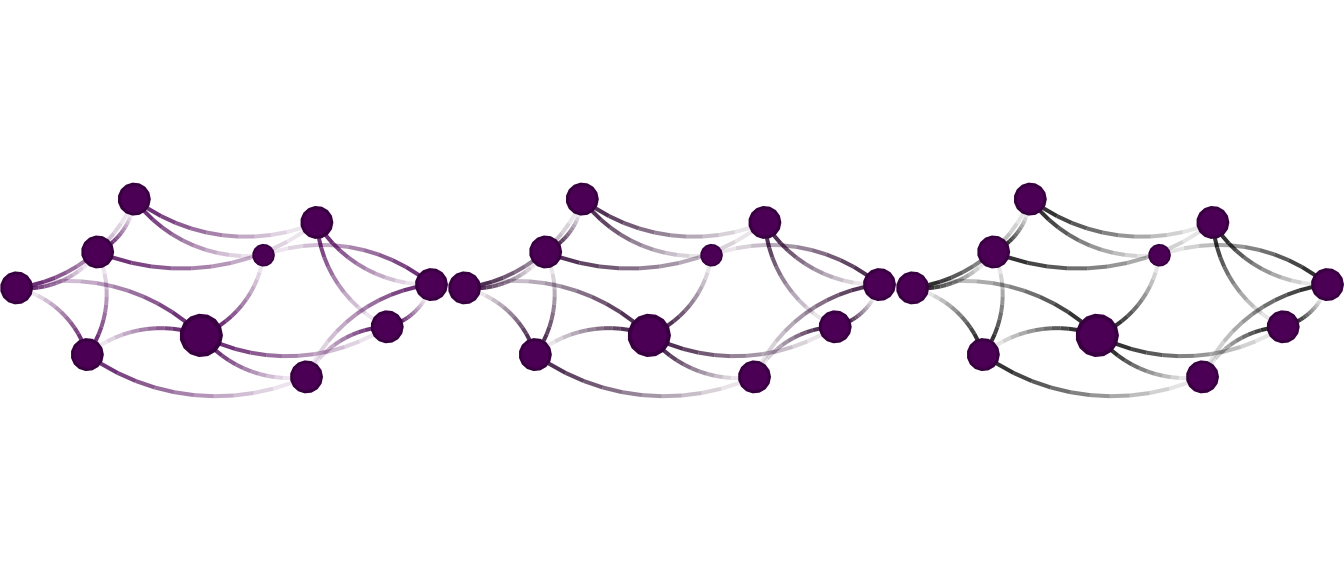
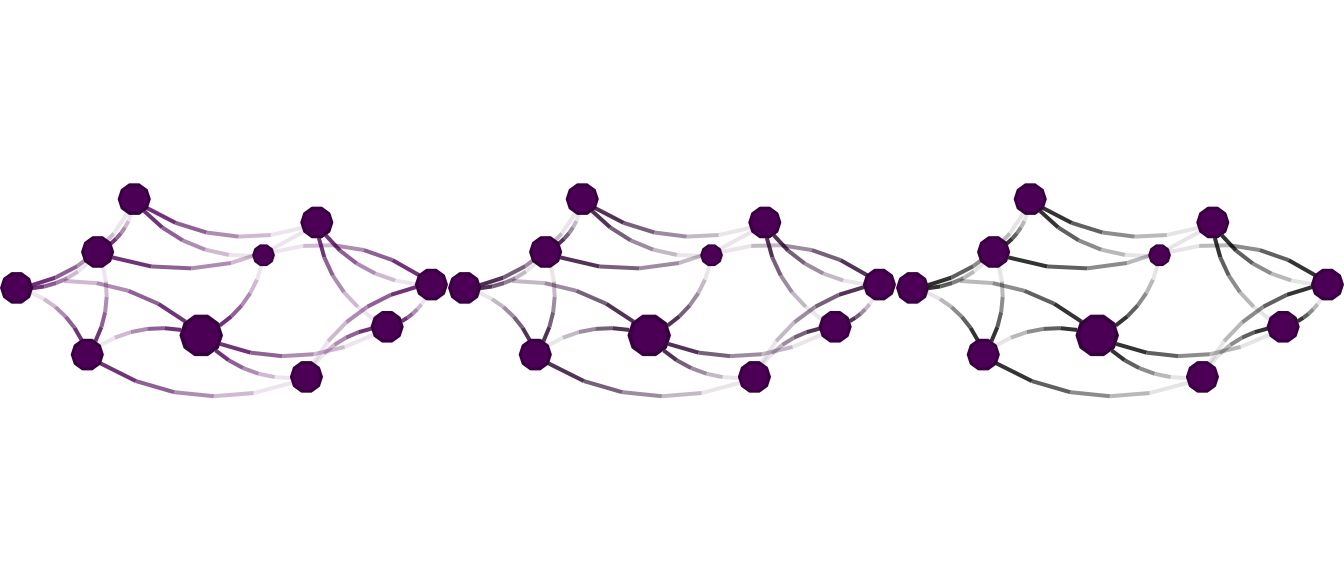
deploy: 20e3d6dbc884a404d5db6398f413ae286cb1bd51

diff --git a/reference/nplot_legend.html b/reference/nplot_legend.html
@@ -200,16 +200,39 @@ figure ar passed through the <code>gp</code> argument (see examples).</p>
 <span class='va'>g</span> <span class='op'>&lt;-</span> <span class='fu'><a href='nplot.html'>nplot</a></span><span class='op'>(</span>
   <span class='va'>x</span>,
   vertex.nsides <span class='op'>=</span> <span class='fu'><a href='https://rdrr.io/pkg/igraph/man/V.html'>V</a></span><span class='op'>(</span><span class='va'>x</span><span class='op'>)</span><span class='op'>$</span><span class='va'>nsides</span>,
-  vertex.color  <span class='op'>=</span> <span class='fu'><a href='https://rdrr.io/r/base/ifelse.html'>ifelse</a></span><span class='op'>(</span><span class='fu'><a href='https://rdrr.io/pkg/igraph/man/V.html'>V</a></span><span class='op'>(</span><span class='va'>x</span><span class='op'>)</span><span class='op'>$</span><span class='va'>nsides</span> <span class='op'>==</span> <span class='fl'>4</span>, <span class='st'>"red"</span>, <span class='st'>"steelblue"</span><span class='op'>)</span>
+  vertex.color  <span class='op'>=</span> <span class='fu'><a href='https://rdrr.io/r/base/ifelse.html'>ifelse</a></span><span class='op'>(</span><span class='fu'><a href='https://rdrr.io/pkg/igraph/man/V.html'>V</a></span><span class='op'>(</span><span class='va'>x</span><span class='op'>)</span><span class='op'>$</span><span class='va'>nsides</span> <span class='op'>==</span> <span class='fl'>4</span>, <span class='st'>"red"</span>, <span class='st'>"steelblue"</span><span class='op'>)</span>,
+  edge.line.breaks <span class='op'>=</span> <span class='fl'>5</span>
   <span class='op'>)</span>
 
 <span class='fu'>nplot_legend</span><span class='op'>(</span>
   <span class='va'>g</span>,
-  labels <span class='op'>=</span> <span class='fu'><a href='https://rdrr.io/r/base/c.html'>c</a></span><span class='op'>(</span><span class='st'>"circle"</span>, <span class='st'>"diamond"</span><span class='op'>)</span>,
-  pch    <span class='op'>=</span> <span class='fu'><a href='https://rdrr.io/r/base/c.html'>c</a></span><span class='op'>(</span><span class='fl'>21</span>, <span class='fl'>23</span><span class='op'>)</span>,
-  gp     <span class='op'>=</span> <span class='fu'>gpar</span><span class='op'>(</span>fill <span class='op'>=</span> <span class='fu'><a href='https://rdrr.io/r/base/c.html'>c</a></span><span class='op'>(</span><span class='st'>"steelblue"</span>, <span class='st'>"red"</span><span class='op'>)</span><span class='op'>)</span>
+  labels <span class='op'>=</span> <span class='fu'><a href='https://rdrr.io/r/base/c.html'>c</a></span><span class='op'>(</span><span class='st'>"circle"</span>, <span class='st'>"diamond"</span>, <span class='st'>"edge"</span><span class='op'>)</span>,
+  pch    <span class='op'>=</span> <span class='fu'><a href='https://rdrr.io/r/base/c.html'>c</a></span><span class='op'>(</span><span class='fl'>21</span>, <span class='fl'>23</span>, <span class='cn'>NA</span><span class='op'>)</span>,
+  gp     <span class='op'>=</span> <span class='fu'>gpar</span><span class='op'>(</span>
+    fill <span class='op'>=</span> <span class='fu'><a href='https://rdrr.io/r/base/c.html'>c</a></span><span class='op'>(</span><span class='st'>"steelblue"</span>, <span class='st'>"red"</span>, <span class='cn'>NA</span><span class='op'>)</span>,
+    lwd  <span class='op'>=</span> <span class='fu'><a href='https://rdrr.io/r/base/c.html'>c</a></span><span class='op'>(</span><span class='cn'>NA</span>, <span class='cn'>NA</span>, <span class='fl'>1</span><span class='op'>)</span>,
+    col  <span class='op'>=</span> <span class='fu'><a href='https://rdrr.io/r/base/c.html'>c</a></span><span class='op'>(</span><span class='cn'>NA</span>, <span class='cn'>NA</span>, <span class='st'>"purple"</span><span class='op'>)</span>
+    <span class='op'>)</span>
   <span class='op'>)</span>
-</div><div class='output co'>#&gt; <span class='error'>Error in nplot_legend(g, labels = c("circle", "diamond"), pch = c(21,     23), gp = gpar(fill = c("steelblue", "red"))): object 'newpage' not found</span></div></pre>
+</div><div class='input'><span class='fu'>grid.text</span><span class='op'>(</span><span class='st'>"Legend to the left (default)"</span>, y <span class='op'>=</span> <span class='fu'>unit</span><span class='op'>(</span><span class='fl'>.95</span>, <span class='st'>"npc"</span><span class='op'>)</span>, just <span class='op'>=</span> <span class='st'>"bottom"</span><span class='op'>)</span>
+</div><div class='img'><img src='nplot_legend-1.png' alt='' width='700' height='433' /></div><div class='input'>
+<span class='fu'>nplot_legend</span><span class='op'>(</span>
+  <span class='va'>g</span>,
+  labels <span class='op'>=</span> <span class='fu'><a href='https://rdrr.io/r/base/c.html'>c</a></span><span class='op'>(</span><span class='st'>"circle"</span>, <span class='st'>"diamond"</span>, <span class='st'>"edge"</span><span class='op'>)</span>,
+  pch    <span class='op'>=</span> <span class='fu'><a href='https://rdrr.io/r/base/c.html'>c</a></span><span class='op'>(</span><span class='fl'>21</span>, <span class='fl'>23</span>, <span class='cn'>NA</span><span class='op'>)</span>,
+  gp     <span class='op'>=</span> <span class='fu'>gpar</span><span class='op'>(</span>
+    fill <span class='op'>=</span> <span class='fu'><a href='https://rdrr.io/r/base/c.html'>c</a></span><span class='op'>(</span><span class='st'>"steelblue"</span>, <span class='st'>"red"</span>, <span class='cn'>NA</span><span class='op'>)</span>,
+    lwd  <span class='op'>=</span> <span class='fu'><a href='https://rdrr.io/r/base/c.html'>c</a></span><span class='op'>(</span><span class='cn'>NA</span>, <span class='cn'>NA</span>, <span class='fl'>1</span><span class='op'>)</span>,
+    col  <span class='op'>=</span> <span class='fu'><a href='https://rdrr.io/r/base/c.html'>c</a></span><span class='op'>(</span><span class='cn'>NA</span>, <span class='cn'>NA</span>, <span class='st'>"purple"</span><span class='op'>)</span>
+    <span class='op'>)</span>,
+  <span class='co'># These two extra options set the legend to the bottom</span>
+  packgrob.args <span class='op'>=</span> <span class='fu'><a href='https://rdrr.io/r/base/list.html'>list</a></span><span class='op'>(</span>side <span class='op'>=</span> <span class='st'>"bottom"</span><span class='op'>)</span>,
+  ncol <span class='op'>=</span> <span class='fl'>3</span>
+  <span class='op'>)</span>
+</div><div class='input'><span class='fu'>grid.text</span><span class='op'>(</span><span class='st'>"Legend bottom"</span>, y <span class='op'>=</span> <span class='fu'>unit</span><span class='op'>(</span><span class='fl'>.95</span>, <span class='st'>"npc"</span><span class='op'>)</span>, just <span class='op'>=</span> <span class='st'>"bottom"</span><span class='op'>)</span>
+</div><div class='img'><img src='nplot_legend-2.png' alt='' width='700' height='433' /></div><div class='input'>
+
+</div></pre>
   </div>
   <div class="col-md-3 hidden-xs hidden-sm" id="pkgdown-sidebar">
     <nav id="toc" data-toggle="toc" class="sticky-top">

diff --git a/index.html b/index.html
@@ -130,6 +130,7 @@
 <span class="co">#&gt; </span>
 <span class="co">#&gt;     union</span>
 <span class="kw"><a href="https://rdrr.io/r/base/library.html">library</a></span><span class="op">(</span><span class="va"><a href="https://github.com/USCCANA/netplot">netplot</a></span><span class="op">)</span>
+<span class="co">#&gt; Loading required package: grid</span>
 <span class="co">#&gt; </span>
 <span class="co">#&gt; Attaching package: 'netplot'</span>
 <span class="co">#&gt; The following object is masked from 'package:igraph':</span>
@@ -173,11 +174,20 @@
 <span class="co"># Plot it!</span>
 <span class="va">ans</span></code></pre></div>
 <p><img src="reference/figures/README-unnamed-chunk-1-1.png" width="85%"></p>
+<div class="sourceCode" id="cb7"><pre class="downlit sourceCode r">
+<code class="sourceCode R"><span class="co"># With a legend</span>
+<span class="fu"><a href="reference/nplot_legend.html">nplot_legend</a></span><span class="op">(</span>
+  <span class="va">ans</span>, 
+  labels <span class="op">=</span> <span class="fu"><a href="https://rdrr.io/r/base/paste.html">paste</a></span><span class="op">(</span><span class="st">"Group"</span>, <span class="fl">1</span><span class="op">:</span><span class="fl">4</span><span class="op">)</span>,
+  pch    <span class="op">=</span> <span class="fu"><a href="https://rdrr.io/r/base/c.html">c</a></span><span class="op">(</span><span class="fl">21</span>, <span class="fl">21</span>, <span class="fl">21</span><span class="op">)</span>,
+  gp     <span class="op">=</span> <span class="fu">gpar</span><span class="op">(</span>fill <span class="op">=</span> <span class="fu">grDevices</span><span class="fu">::</span><span class="fu"><a href="https://rdrr.io/r/grDevices/palettes.html">hcl.colors</a></span><span class="op">(</span><span class="fl">5</span>, <span class="st">"Plasma"</span><span class="op">)</span><span class="op">[</span><span class="fl">2</span><span class="op">:</span><span class="fl">4</span><span class="op">]</span><span class="op">)</span>
+  <span class="op">)</span></code></pre></div>
+<p><img src="reference/figures/README-unnamed-chunk-1-2.png" width="85%"></p>
 </div>
 <div id="usairports" class="section level3">
 <h3 class="hasAnchor">
 <a href="#usairports" class="anchor"></a>USairports</h3>
-<div class="sourceCode" id="cb7"><pre class="downlit sourceCode r">
+<div class="sourceCode" id="cb8"><pre class="downlit sourceCode r">
 <code class="sourceCode R"><span class="co"># Loading the data</span>
 <span class="fu"><a href="https://rdrr.io/r/utils/data.html">data</a></span><span class="op">(</span><span class="va">USairports</span>, package<span class="op">=</span><span class="st">"igraphdata"</span><span class="op">)</span>
 
@@ -216,8 +226,9 @@
   vertex.color      <span class="op">=</span> <span class="va">col</span>,
   skip.vertex       <span class="op">=</span> <span class="cn">TRUE</span>,
   skip.arrows       <span class="op">=</span> <span class="cn">TRUE</span>,
-  edge.width.range  <span class="op">=</span> <span class="fu"><a href="https://rdrr.io/r/base/c.html">c</a></span><span class="op">(</span><span class="fl">.75</span>, <span class="fl">4</span>, <span class="fl">4</span><span class="op">)</span>,
-  bg.col            <span class="op">=</span> <span class="st">"black"</span>
+  edge.width.range  <span class="op">=</span> <span class="fu"><a href="https://rdrr.io/r/base/c.html">c</a></span><span class="op">(</span><span class="fl">.75</span>, <span class="fl">4</span>, <span class="fl">4</span><span class="op">)</span>, 
+  bg.col            <span class="op">=</span> <span class="st">"black"</span>,
+  edge.line.breaks  <span class="op">=</span> <span class="fl">10</span>
   <span class="op">)</span></code></pre></div>
 <p><img src="reference/figures/README-us-airports-1.png" width="85%"></p>
 </div>

diff --git a/reference/nplot_base.html b/reference/nplot_base.html
@@ -140,7 +140,7 @@
   layout <span class='op'>=</span> <span class='fu'>igraph</span><span class='fu'>::</span><span class='fu'><a href='https://rdrr.io/pkg/igraph/man/layout_nicely.html'>layout_nicely</a></span><span class='op'>(</span><span class='va'>x</span><span class='op'>)</span>,
   vertex.size <span class='op'>=</span> <span class='fu'>igraph</span><span class='fu'>::</span><span class='fu'><a href='https://rdrr.io/pkg/igraph/man/degree.html'>degree</a></span><span class='op'>(</span><span class='va'>x</span>, mode <span class='op'>=</span> <span class='st'>"in"</span><span class='op'>)</span>,
   bg.col <span class='op'>=</span> <span class='st'>"transparent"</span>,
-  vertex.nsides <span class='op'>=</span> <span class='fl'>15</span>,
+  vertex.nsides <span class='op'>=</span> <span class='fl'>10</span>,
   vertex.color <span class='op'>=</span> <span class='fu'>grDevices</span><span class='fu'>::</span><span class='fu'><a href='https://rdrr.io/r/grDevices/palettes.html'>hcl.colors</a></span><span class='op'>(</span><span class='fl'>1</span><span class='op'>)</span>,
   vertex.size.range <span class='op'>=</span> <span class='fu'><a href='https://rdrr.io/r/base/c.html'>c</a></span><span class='op'>(</span><span class='fl'>0.01</span>, <span class='fl'>0.03</span><span class='op'>)</span>,
   vertex.frame.color <span class='op'>=</span> <span class='fu'>grDevices</span><span class='fu'>::</span><span class='fu'><a href='https://rdrr.io/r/grDevices/adjustcolor.html'>adjustcolor</a></span><span class='op'>(</span><span class='va'>vertex.color</span>, red.f <span class='op'>=</span> <span class='fl'>0.75</span>, green.f <span class='op'>=</span>
@@ -155,7 +155,7 @@
   edge.color.alpha <span class='op'>=</span> <span class='fu'><a href='https://rdrr.io/r/base/c.html'>c</a></span><span class='op'>(</span><span class='fl'>0.1</span>, <span class='fl'>0.5</span><span class='op'>)</span>,
   edge.curvature <span class='op'>=</span> <span class='va'>pi</span><span class='op'>/</span><span class='fl'>3</span>,
   edge.line.lty <span class='op'>=</span> <span class='st'>"solid"</span>,
-  edge.line.breaks <span class='op'>=</span> <span class='fl'>10</span>,
+  edge.line.breaks <span class='op'>=</span> <span class='fl'>5</span>,
   sample.edges <span class='op'>=</span> <span class='fl'>1</span>,
   skip.vertex <span class='op'>=</span> <span class='cn'>FALSE</span>,
   skip.edges <span class='op'>=</span> <span class='cn'>FALSE</span>,

diff --git a/reference/nplot.html b/reference/nplot.html
@@ -164,7 +164,7 @@
   <span class='va'>layout</span>,
   vertex.size <span class='op'>=</span> <span class='fl'>1</span>,
   bg.col <span class='op'>=</span> <span class='st'>"transparent"</span>,
-  vertex.nsides <span class='op'>=</span> <span class='fl'>15</span>,
+  vertex.nsides <span class='op'>=</span> <span class='fl'>10</span>,
   vertex.color <span class='op'>=</span> <span class='fu'>grDevices</span><span class='fu'>::</span><span class='fu'><a href='https://rdrr.io/r/grDevices/palettes.html'>hcl.colors</a></span><span class='op'>(</span><span class='fl'>1</span><span class='op'>)</span>,
   vertex.size.range <span class='op'>=</span> <span class='fu'><a href='https://rdrr.io/r/base/c.html'>c</a></span><span class='op'>(</span><span class='fl'>0.01</span>, <span class='fl'>0.03</span><span class='op'>)</span>,
   vertex.frame.color <span class='op'>=</span> <span class='fu'>grDevices</span><span class='fu'>::</span><span class='fu'><a href='https://rdrr.io/r/grDevices/adjustcolor.html'>adjustcolor</a></span><span class='op'>(</span><span class='va'>vertex.color</span>, red.f <span class='op'>=</span> <span class='fl'>0.75</span>, green.f <span class='op'>=</span>
@@ -184,7 +184,7 @@
   edge.color <span class='op'>=</span> <span class='op'>~</span><span class='fu'><a href='netplot-formulae.html'>ego</a></span><span class='op'>(</span>alpha <span class='op'>=</span> <span class='fl'>0.25</span><span class='op'>)</span> <span class='op'>+</span> <span class='va'>alter</span>,
   edge.curvature <span class='op'>=</span> <span class='va'>pi</span><span class='op'>/</span><span class='fl'>3</span>,
   edge.line.lty <span class='op'>=</span> <span class='st'>"solid"</span>,
-  edge.line.breaks <span class='op'>=</span> <span class='fl'>10</span>,
+  edge.line.breaks <span class='op'>=</span> <span class='fl'>5</span>,
   sample.edges <span class='op'>=</span> <span class='fl'>1</span>,
   skip.vertex <span class='op'>=</span> <span class='cn'>FALSE</span>,
   skip.edges <span class='op'>=</span> <span class='cn'>FALSE</span>,
